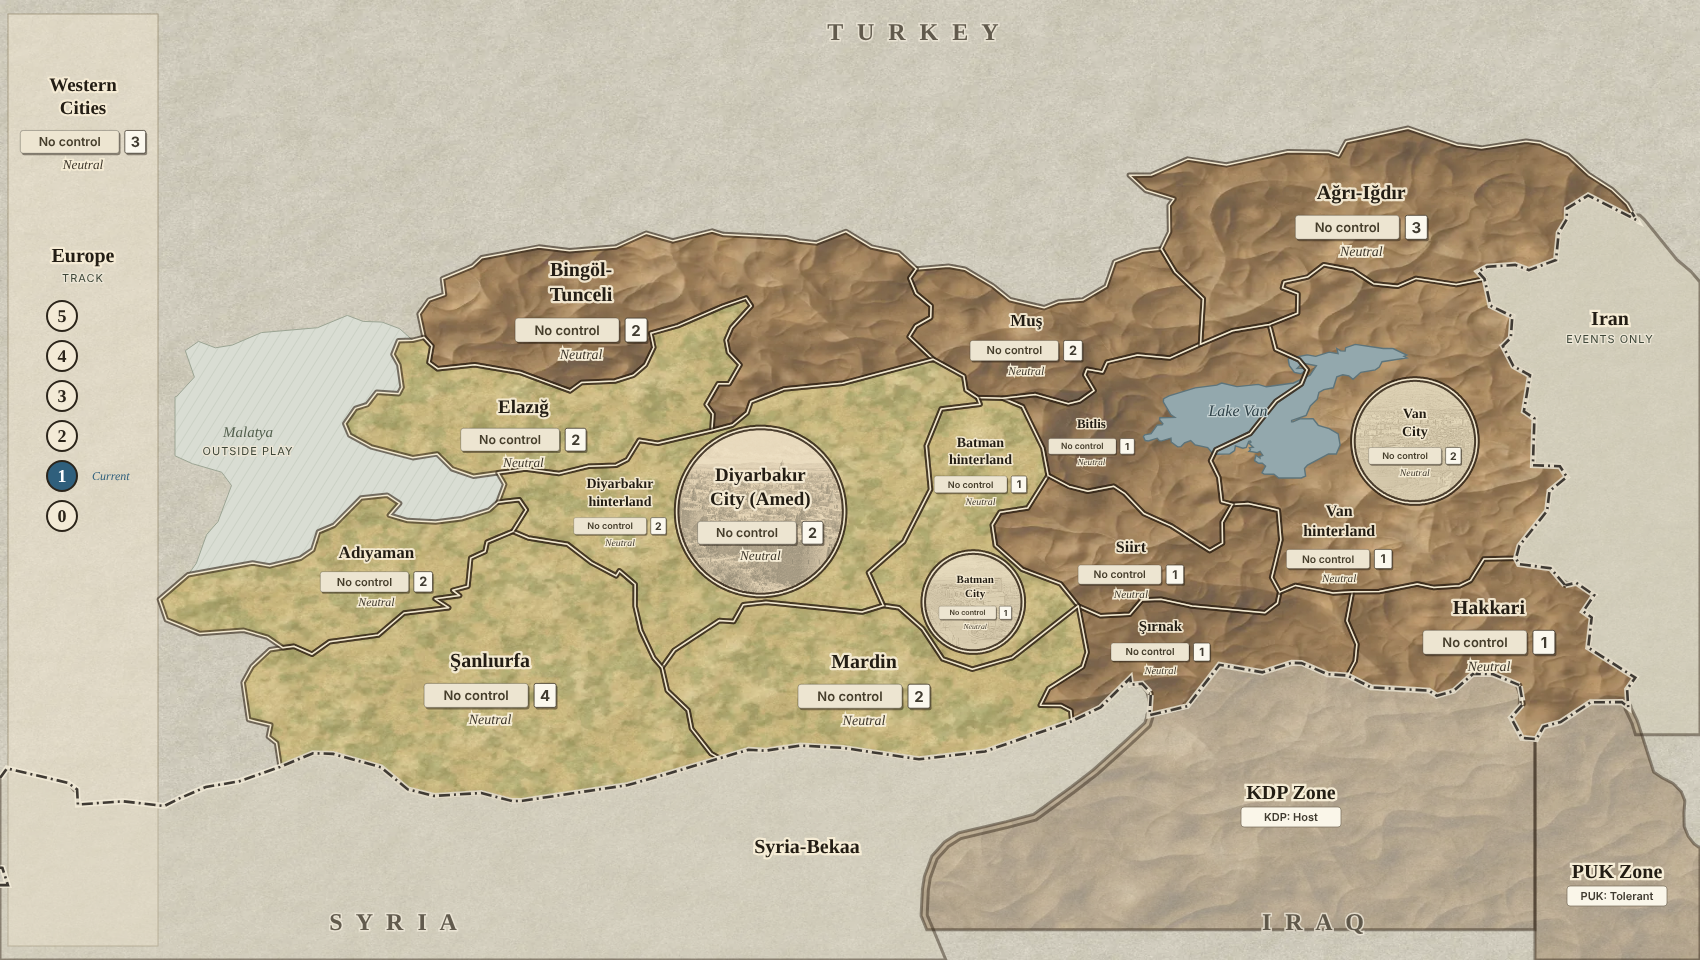
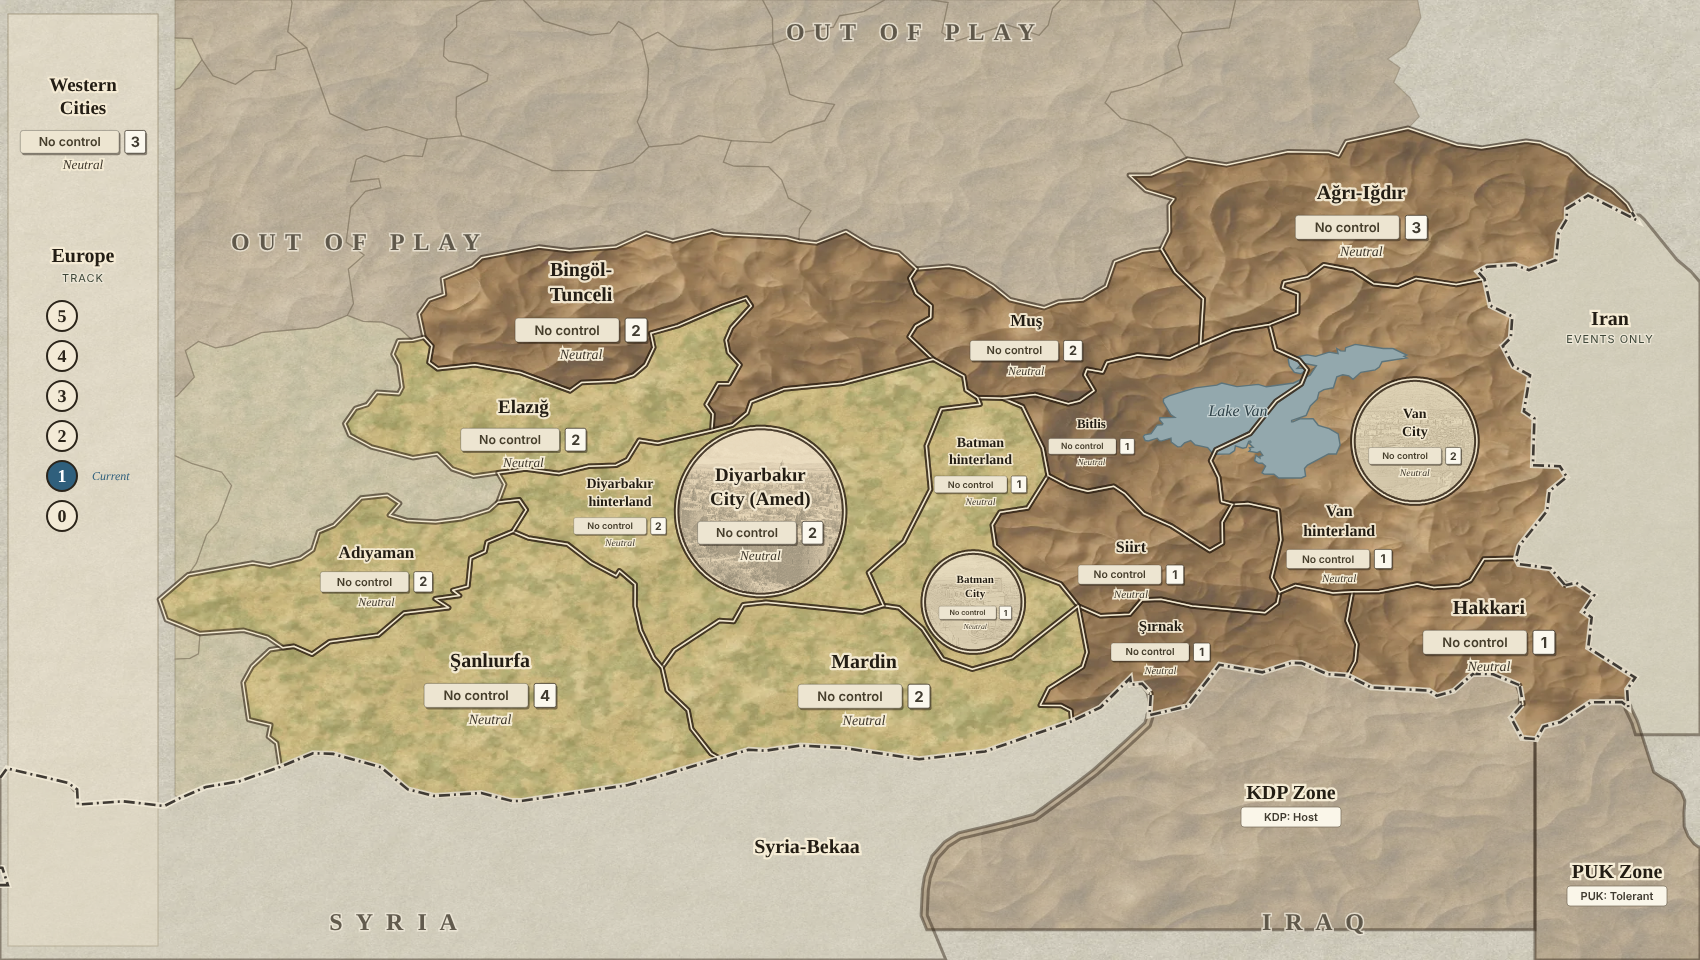
Show out-of-play Turkey as faded terrain labeled OUT OF PLAY
Mockup only.

Claude-Session: https://claude.ai/code/session_015SRWaDRCZStH4Abucfj1aN

diff --git a/docs/map-proposals/proposal-2/README.md b/docs/map-proposals/proposal-2/README.md
@@ -15,6 +15,7 @@ Confidence: medium. Pop, terrain and Batman values are unverified design values.
 | 1 | Batman as a small city plus a Batman province | Batman City (Pop 1, small circle) and Batman hinterland (Plain, Pop 1). Siirt is now its own space (Mountain, Pop 1). "Siirt-Batman" no longer exists |
 | 2 | Diyarbakır City overlaps other provinces and has no city art | Every city circle is now fitted fully inside its own province. A check confirms no circle touches another province. Diyarbakır City uses the game's `diyarbakir-city.png` at the same low opacity |
 | 3 | City art for Batman and Van from real photos | Two real photos (CC BY-SA 4.0) converted to the sepia etching look. See `SOURCES.md` |
+| 4 | Malatya hatch looks wrong; out-of-play Turkey should match | The hatch is gone. All non-playable Turkish provinces now show the same terrain art, faded to 32 percent, with thin borders and the label "OUT OF PLAY" (top and left). The "TURKEY" label is removed |
 
 ## Spaces (18 domestic)
 
@@ -51,7 +52,8 @@ Colonial Twilight has 25 Sectors and 3 Cities. This map has 14 non-city spaces a
 1. **Local magnification near Batman.** Batman is the smallest space. At true scale its labels were unreadable (scale 0.35). The map applies a smooth 1.9x magnification inside a 330-unit radius around Batman. Borders stay shared and none cross. This is a schematic display change, like DEC-61. Neighbor shapes near Batman (Siirt, Bitlis, Mardin, Diyarbakır) stretch slightly.
 2. **Frame.** 1700 x 960 units. Province shapes are 19 percent larger than in v1 so labels fit.
 3. **City art opacity.** 42 percent over a parchment base for all three cities. The game uses 30 percent for Diyarbakır. Pick one value.
-4. **Smallest label scales.** Batman City 0.55, Bitlis 0.65, Batman hinterland 0.7. Piece stacks still need a larger board or smaller pieces in these spaces.
+4. **Out-of-play terrain.** Mountain or plain art per province is a guess (Erzurum, Kars, Ardahan, Erzincan, Bayburt, Gümüşhane, Artvin, Rize, Trabzon, Giresun, Sivas, Ordu use mountain art). Unverified assumption. It is decoration only.
+5. **Smallest label scales.** Batman City 0.55, Bitlis 0.65, Batman hinterland 0.7. Piece stacks still need a larger board or smaller pieces in these spaces.
 
 ## Unverified assumptions
 
